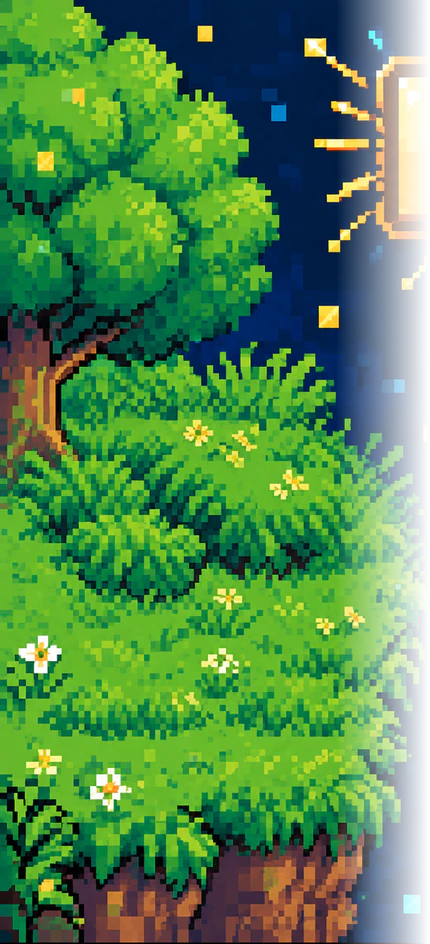
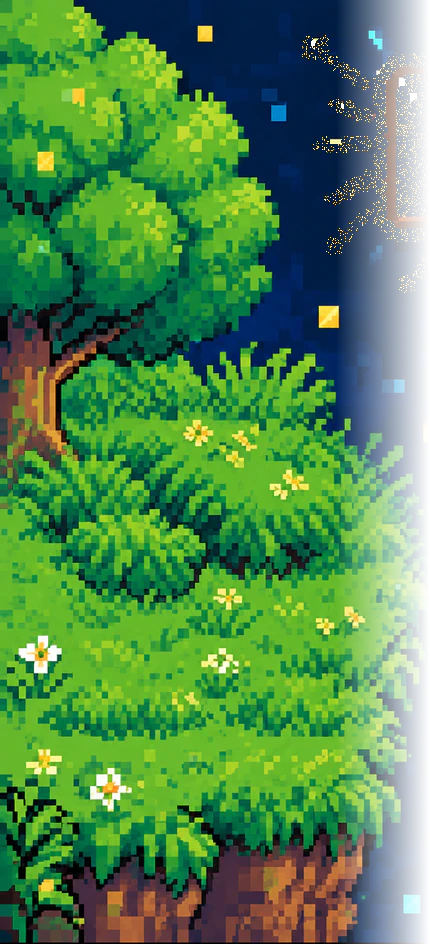
fix: sad AIDA birds on human win, badge rays removed from plate

Changed region(s): [[0.6953, 0.0307, 0.9977, 0.3072]]

diff --git a/src/components/px/flanks.ts b/src/components/px/flanks.ts
@@ -92,8 +92,8 @@ export const FLANKS = {
     aspect: 460 / 944,
     plate: `${P}hw-right.webp`,
     actors: [
-      { name: 'mascot-boy-cheer', x: 6, y: 25, h: 38, motion: 'cheer', speed: '1.3s' },
-      { name: 'mascot-girl-cheer', x: 52, y: 23, h: 28, motion: 'cheer', speed: '1.4s', hop: '1.8s' },
+      { name: 'mascot-boy-shrug', x: 8, y: 25, h: 36, motion: 'slump', speed: '4.2s' },
+      { name: 'mascot-girl-idk', x: 54, y: 23, h: 27, motion: 'slump', speed: '5.1s' },
     ],
   },
   'aw-left': {
